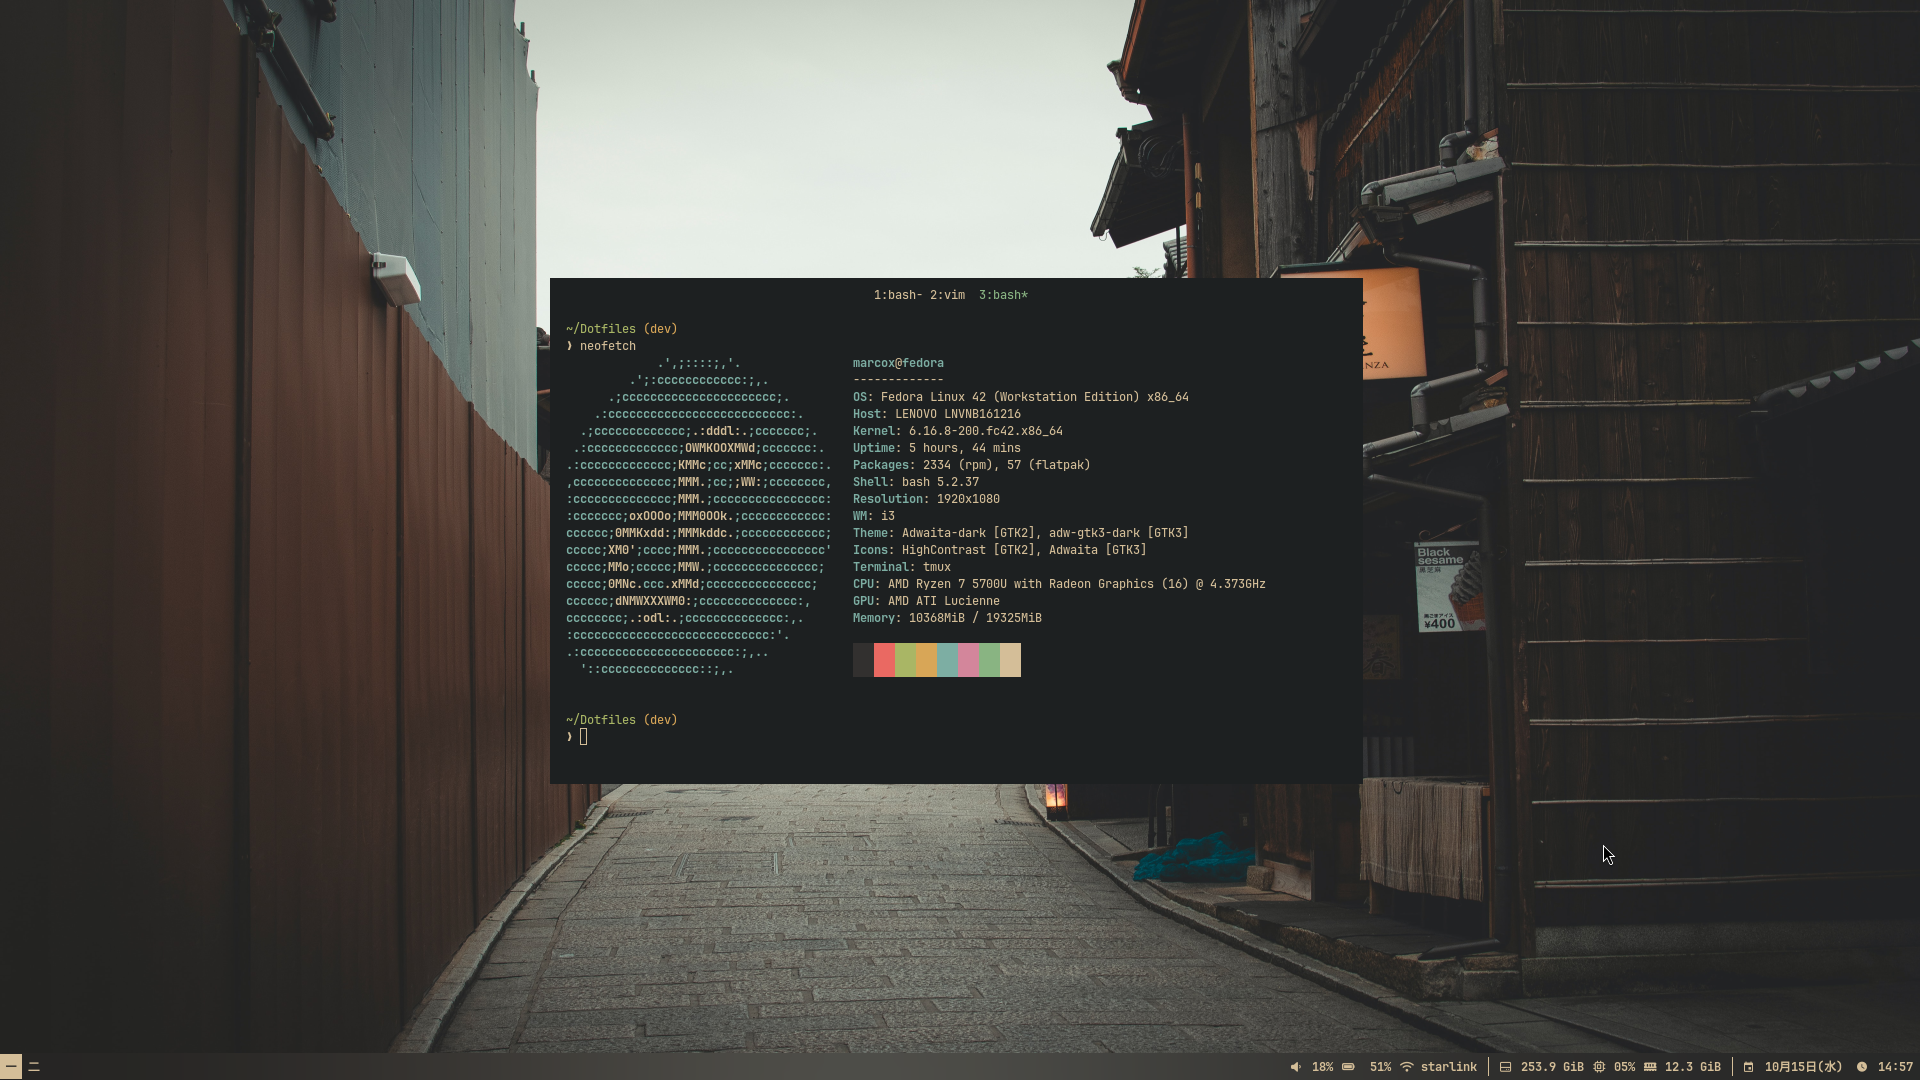
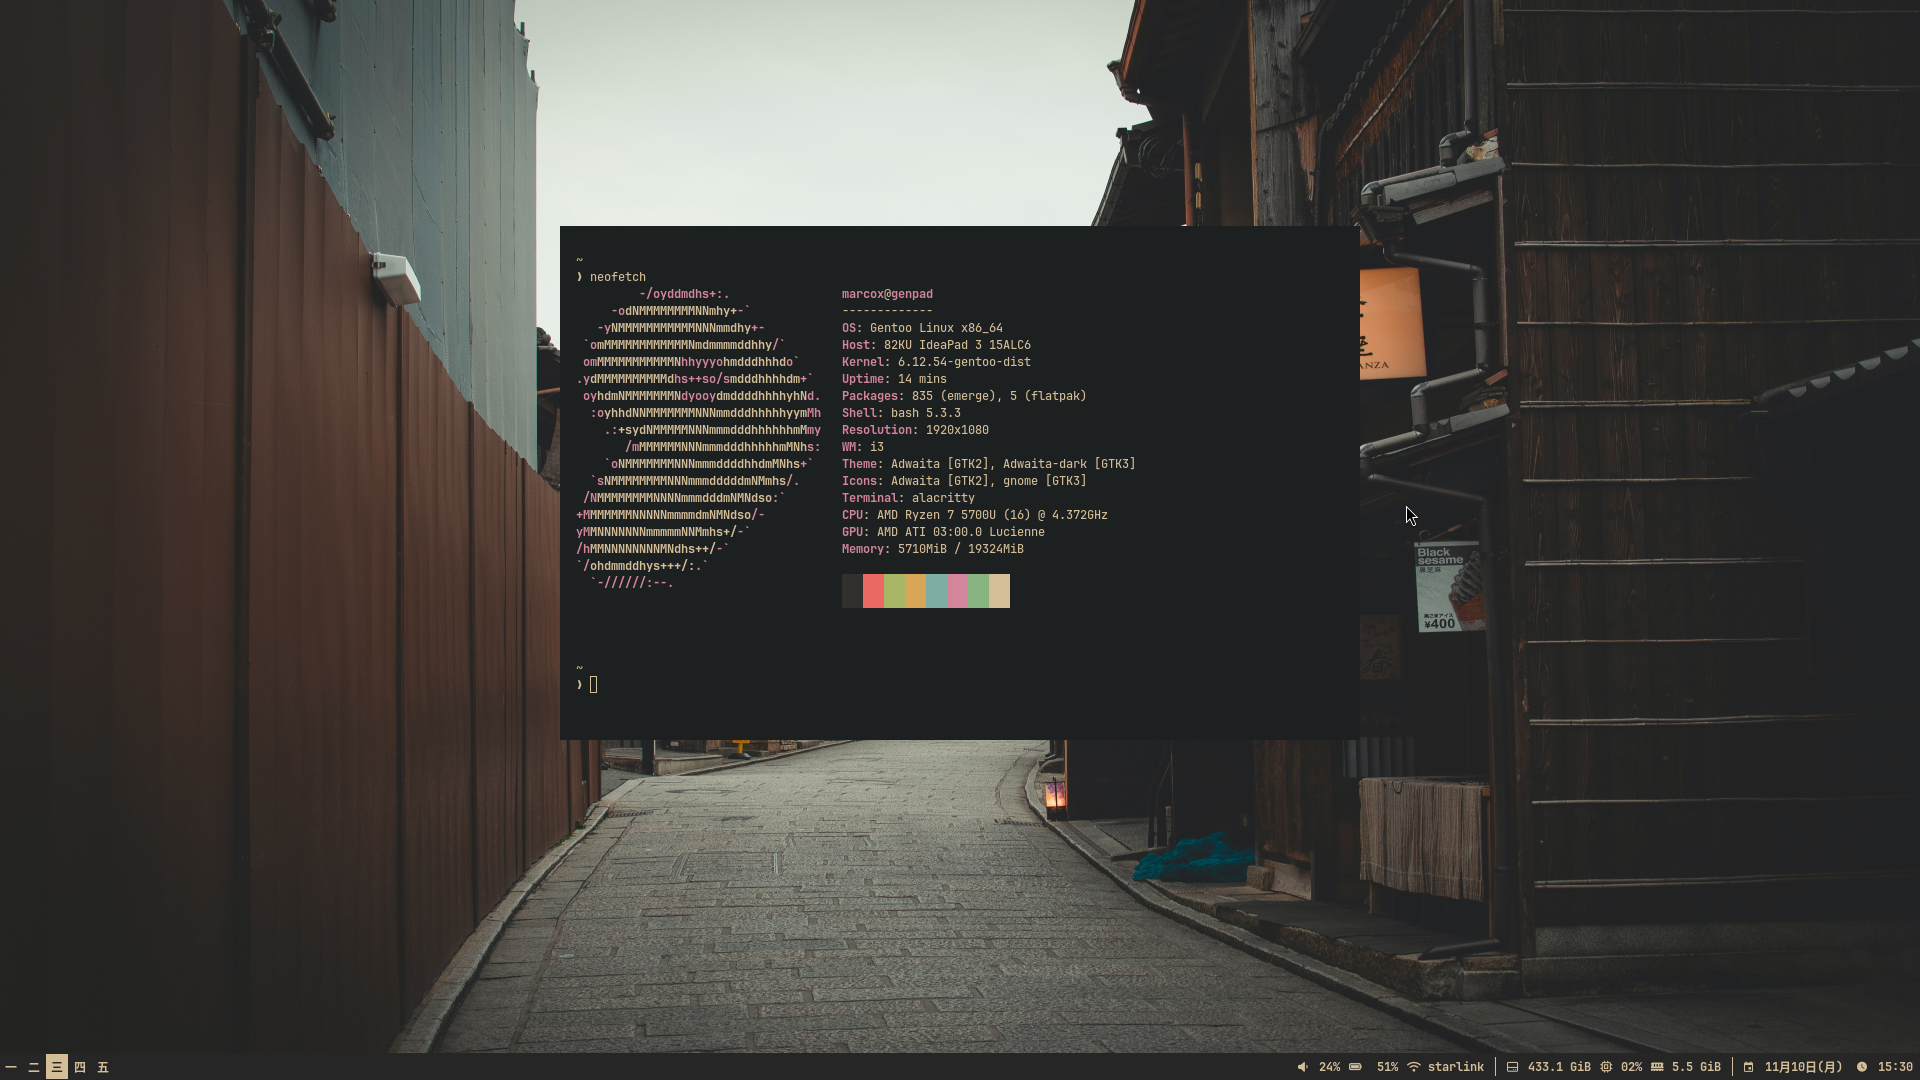
docs: update linux screenshot

diff --git a/README.md b/README.md
@@ -2,7 +2,7 @@
 
 - **OS:**
   - Windows 11
-  - Fedora Linux
+  - Gentoo Linux
   - macOS Sequoia (Opencore)
 - **Terminal:**
   - Wezterm/Alacritty/Ghostty
